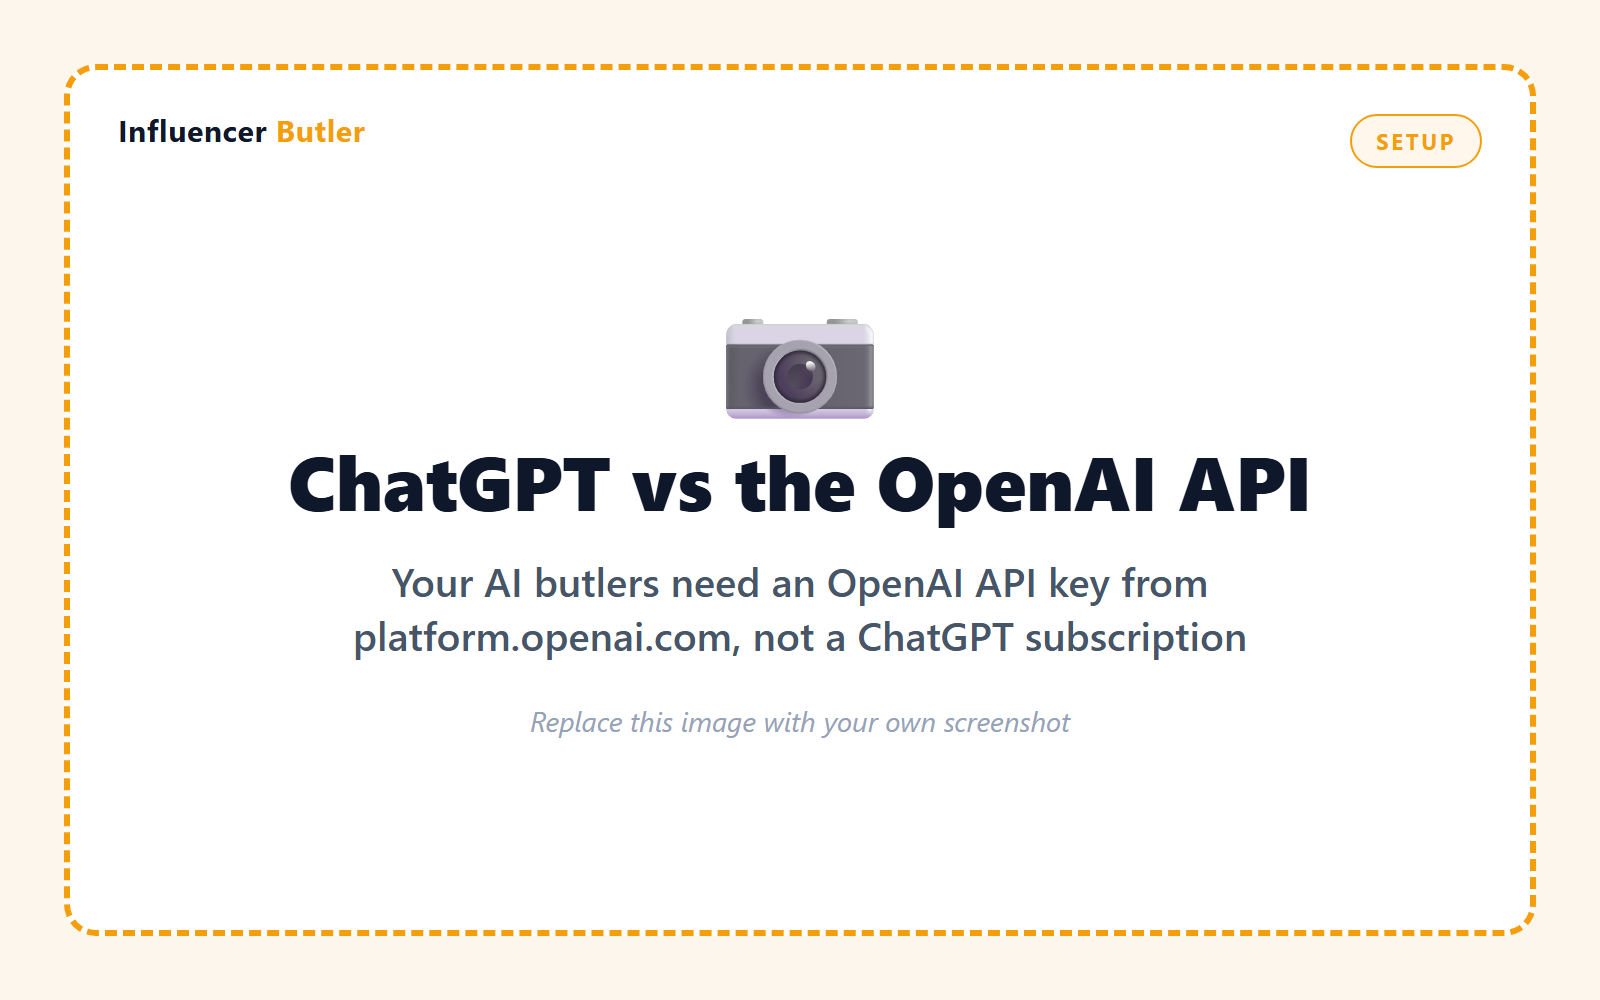
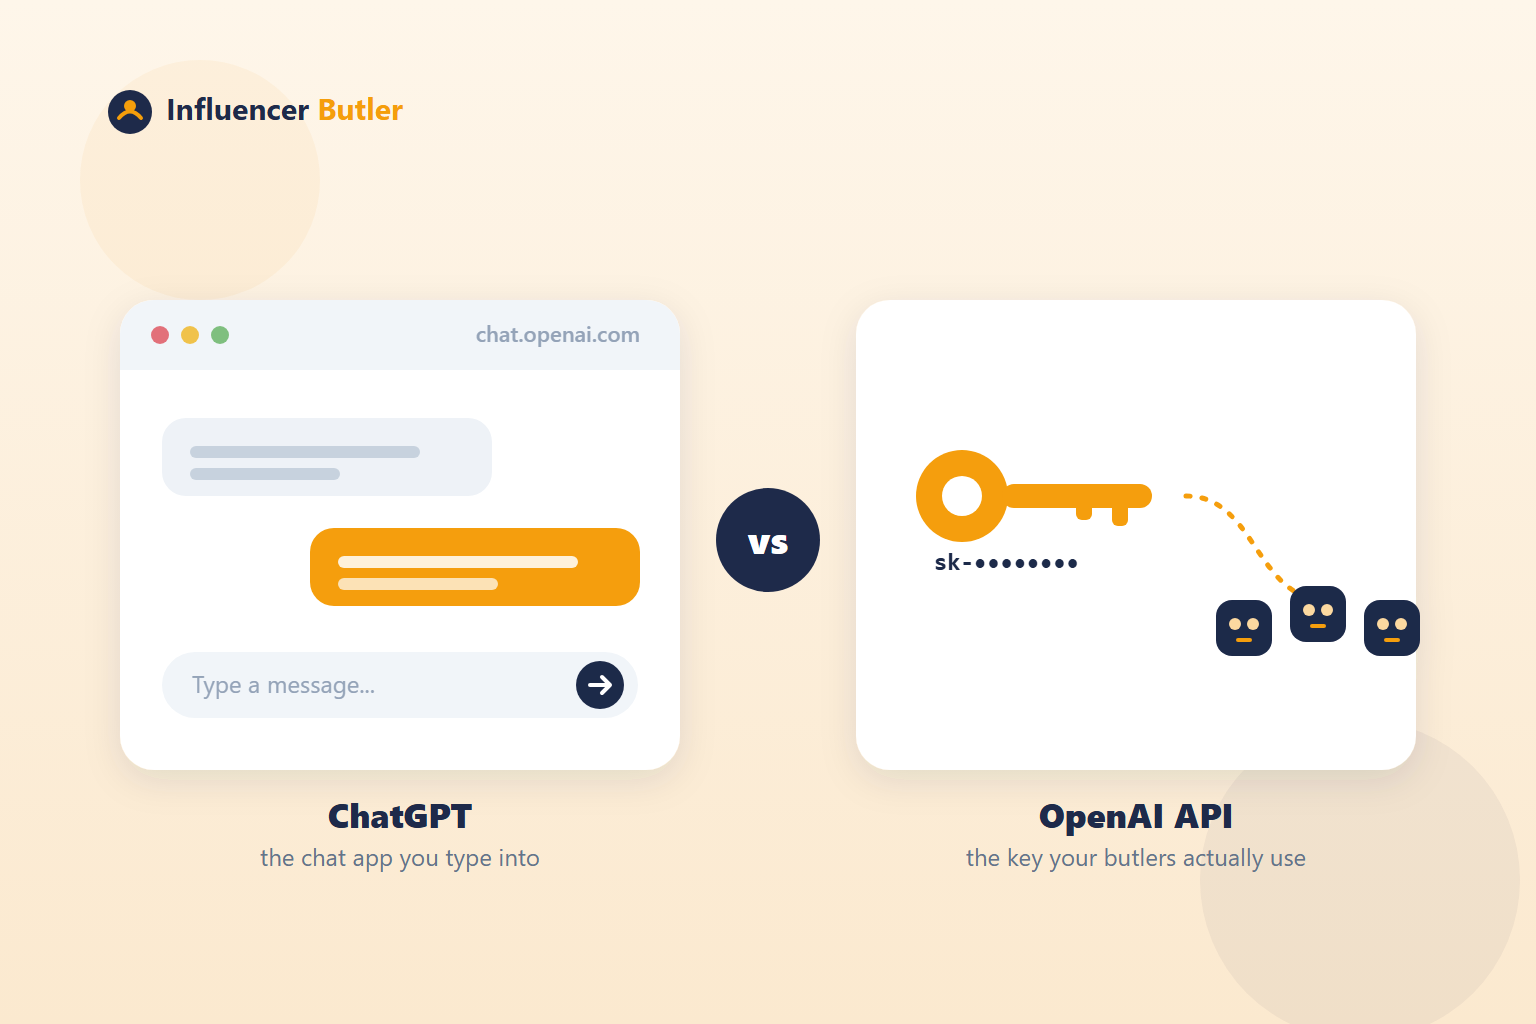
assets(blog): add real hero for the ChatGPT vs OpenAI API post
Replace the "replace this screenshot" placeholder with an on-brand vector
illustration contrasting the ChatGPT chat app with an OpenAI API key that
feeds the butlers. Rendered offline from committed HTML via headless Chrome
(no API key needed): scripts/generate-openai-vs-chatgpt-hero.mjs.

diff --git a/scripts/assets/openai-vs-chatgpt-hero.html b/scripts/assets/openai-vs-chatgpt-hero.html
@@ -1,0 +1,115 @@
+<!doctype html>
+<html>
+<head>
+<meta charset="utf-8" />
+<style>
+  html, body { margin: 0; padding: 0; }
+  #stage { width: 1536px; height: 1024px; }
+  svg { display: block; }
+</style>
+</head>
+<body>
+<div id="stage">
+<svg width="1536" height="1024" viewBox="0 0 1536 1024" xmlns="http://www.w3.org/2000/svg" font-family="Segoe UI, Arial, sans-serif">
+  <defs>
+    <linearGradient id="bg" x1="0" y1="0" x2="0" y2="1">
+      <stop offset="0" stop-color="#FEF6EA"/>
+      <stop offset="1" stop-color="#FBE9CF"/>
+    </linearGradient>
+    <filter id="soft" x="-20%" y="-20%" width="140%" height="140%">
+      <feDropShadow dx="0" dy="10" stdDeviation="18" flood-color="#1E2A4A" flood-opacity="0.10"/>
+    </filter>
+  </defs>
+
+  <!-- background -->
+  <rect width="1536" height="1024" fill="url(#bg)"/>
+  <circle cx="200" cy="180" r="120" fill="#F59E0B" opacity="0.06"/>
+  <circle cx="1360" cy="880" r="160" fill="#1E2A4A" opacity="0.05"/>
+
+  <!-- wordmark -->
+  <g transform="translate(108,92)">
+    <circle cx="22" cy="20" r="22" fill="#1E2A4A"/>
+    <path d="M11 26 q11 -13 22 0" fill="none" stroke="#F59E0B" stroke-width="4" stroke-linecap="round"/>
+    <circle cx="22" cy="14" r="6" fill="#F59E0B"/>
+    <text x="58" y="28" font-size="30" font-weight="700" fill="#1E2A4A">Influencer <tspan fill="#F59E0B">Butler</tspan></text>
+  </g>
+
+  <!-- LEFT: ChatGPT the chat app -->
+  <g transform="translate(120,300)" filter="url(#soft)">
+    <rect width="560" height="470" rx="34" fill="#FFFFFF"/>
+    <!-- window header -->
+    <rect x="0" y="0" width="560" height="70" rx="34" fill="#F1F5F9"/>
+    <rect x="0" y="36" width="560" height="34" fill="#F1F5F9"/>
+    <circle cx="40" cy="35" r="9" fill="#E2707A"/>
+    <circle cx="70" cy="35" r="9" fill="#F0C24B"/>
+    <circle cx="100" cy="35" r="9" fill="#7FBF7F"/>
+    <text x="520" y="42" text-anchor="end" font-size="22" font-weight="600" fill="#94A3B8">chat.openai.com</text>
+    <!-- incoming bubble -->
+    <rect x="42" y="118" width="330" height="78" rx="24" fill="#EEF2F7"/>
+    <rect x="70" y="146" width="230" height="12" rx="6" fill="#C7D2DE"/>
+    <rect x="70" y="168" width="150" height="12" rx="6" fill="#C7D2DE"/>
+    <!-- outgoing bubble -->
+    <rect x="190" y="228" width="330" height="78" rx="24" fill="#F59E0B"/>
+    <rect x="218" y="256" width="240" height="12" rx="6" fill="#FFFFFF" opacity="0.85"/>
+    <rect x="218" y="278" width="160" height="12" rx="6" fill="#FFFFFF" opacity="0.7"/>
+    <!-- input row -->
+    <rect x="42" y="352" width="476" height="66" rx="33" fill="#F1F5F9"/>
+    <text x="72" y="393" font-size="24" fill="#94A3B8">Type a message...</text>
+    <circle cx="480" cy="385" r="24" fill="#1E2A4A"/>
+    <path d="M470 385 h20 M482 377 l8 8 l-8 8" fill="none" stroke="#FFFFFF" stroke-width="4" stroke-linecap="round" stroke-linejoin="round"/>
+  </g>
+  <text x="400" y="828" text-anchor="middle" font-size="34" font-weight="800" fill="#1E2A4A">ChatGPT</text>
+  <text x="400" y="866" text-anchor="middle" font-size="24" fill="#64748B">the chat app you type into</text>
+
+  <!-- CENTER vs -->
+  <g transform="translate(768,540)">
+    <circle r="52" fill="#1E2A4A"/>
+    <text y="14" text-anchor="middle" font-size="38" font-weight="800" fill="#FFFFFF">vs</text>
+  </g>
+
+  <!-- RIGHT: OpenAI API key powering butlers -->
+  <g transform="translate(856,300)" filter="url(#soft)">
+    <rect width="560" height="470" rx="34" fill="#FFFFFF"/>
+
+    <!-- API key -->
+    <g transform="translate(60,150)">
+      <circle cx="46" cy="46" r="46" fill="#F59E0B"/>
+      <circle cx="46" cy="46" r="20" fill="#FFFFFF"/>
+      <rect x="86" y="34" width="150" height="24" rx="12" fill="#F59E0B"/>
+      <rect x="196" y="34" width="16" height="42" rx="6" fill="#F59E0B"/>
+      <rect x="160" y="34" width="16" height="36" rx="6" fill="#F59E0B"/>
+      <text x="18" y="120" font-size="24" font-weight="700" fill="#1E2A4A" font-family="Consolas, monospace">sk-••••••••</text>
+    </g>
+
+    <!-- dashed connector -->
+    <path d="M330 196 C 400 196, 400 300, 470 300" fill="none" stroke="#F59E0B" stroke-width="5" stroke-dasharray="4 12" stroke-linecap="round"/>
+
+    <!-- three little butler bots -->
+    <g transform="translate(360,300)">
+      <g>
+        <rect x="0" y="0" width="56" height="56" rx="16" fill="#1E2A4A"/>
+        <circle cx="19" cy="24" r="6" fill="#FCD9A0"/>
+        <circle cx="37" cy="24" r="6" fill="#FCD9A0"/>
+        <path d="M22 40 h12" stroke="#F59E0B" stroke-width="4" stroke-linecap="round"/>
+      </g>
+      <g transform="translate(74,-14)">
+        <rect x="0" y="0" width="56" height="56" rx="16" fill="#1E2A4A"/>
+        <circle cx="19" cy="24" r="6" fill="#FCD9A0"/>
+        <circle cx="37" cy="24" r="6" fill="#FCD9A0"/>
+        <path d="M22 40 h12" stroke="#F59E0B" stroke-width="4" stroke-linecap="round"/>
+      </g>
+      <g transform="translate(148,0)">
+        <rect x="0" y="0" width="56" height="56" rx="16" fill="#1E2A4A"/>
+        <circle cx="19" cy="24" r="6" fill="#FCD9A0"/>
+        <circle cx="37" cy="24" r="6" fill="#FCD9A0"/>
+        <path d="M22 40 h12" stroke="#F59E0B" stroke-width="4" stroke-linecap="round"/>
+      </g>
+    </g>
+  </g>
+  <text x="1136" y="828" text-anchor="middle" font-size="34" font-weight="800" fill="#1E2A4A">OpenAI API</text>
+  <text x="1136" y="866" text-anchor="middle" font-size="24" fill="#64748B">the key your butlers actually use</text>
+
+</svg>
+</div>
+</body>
+</html>
